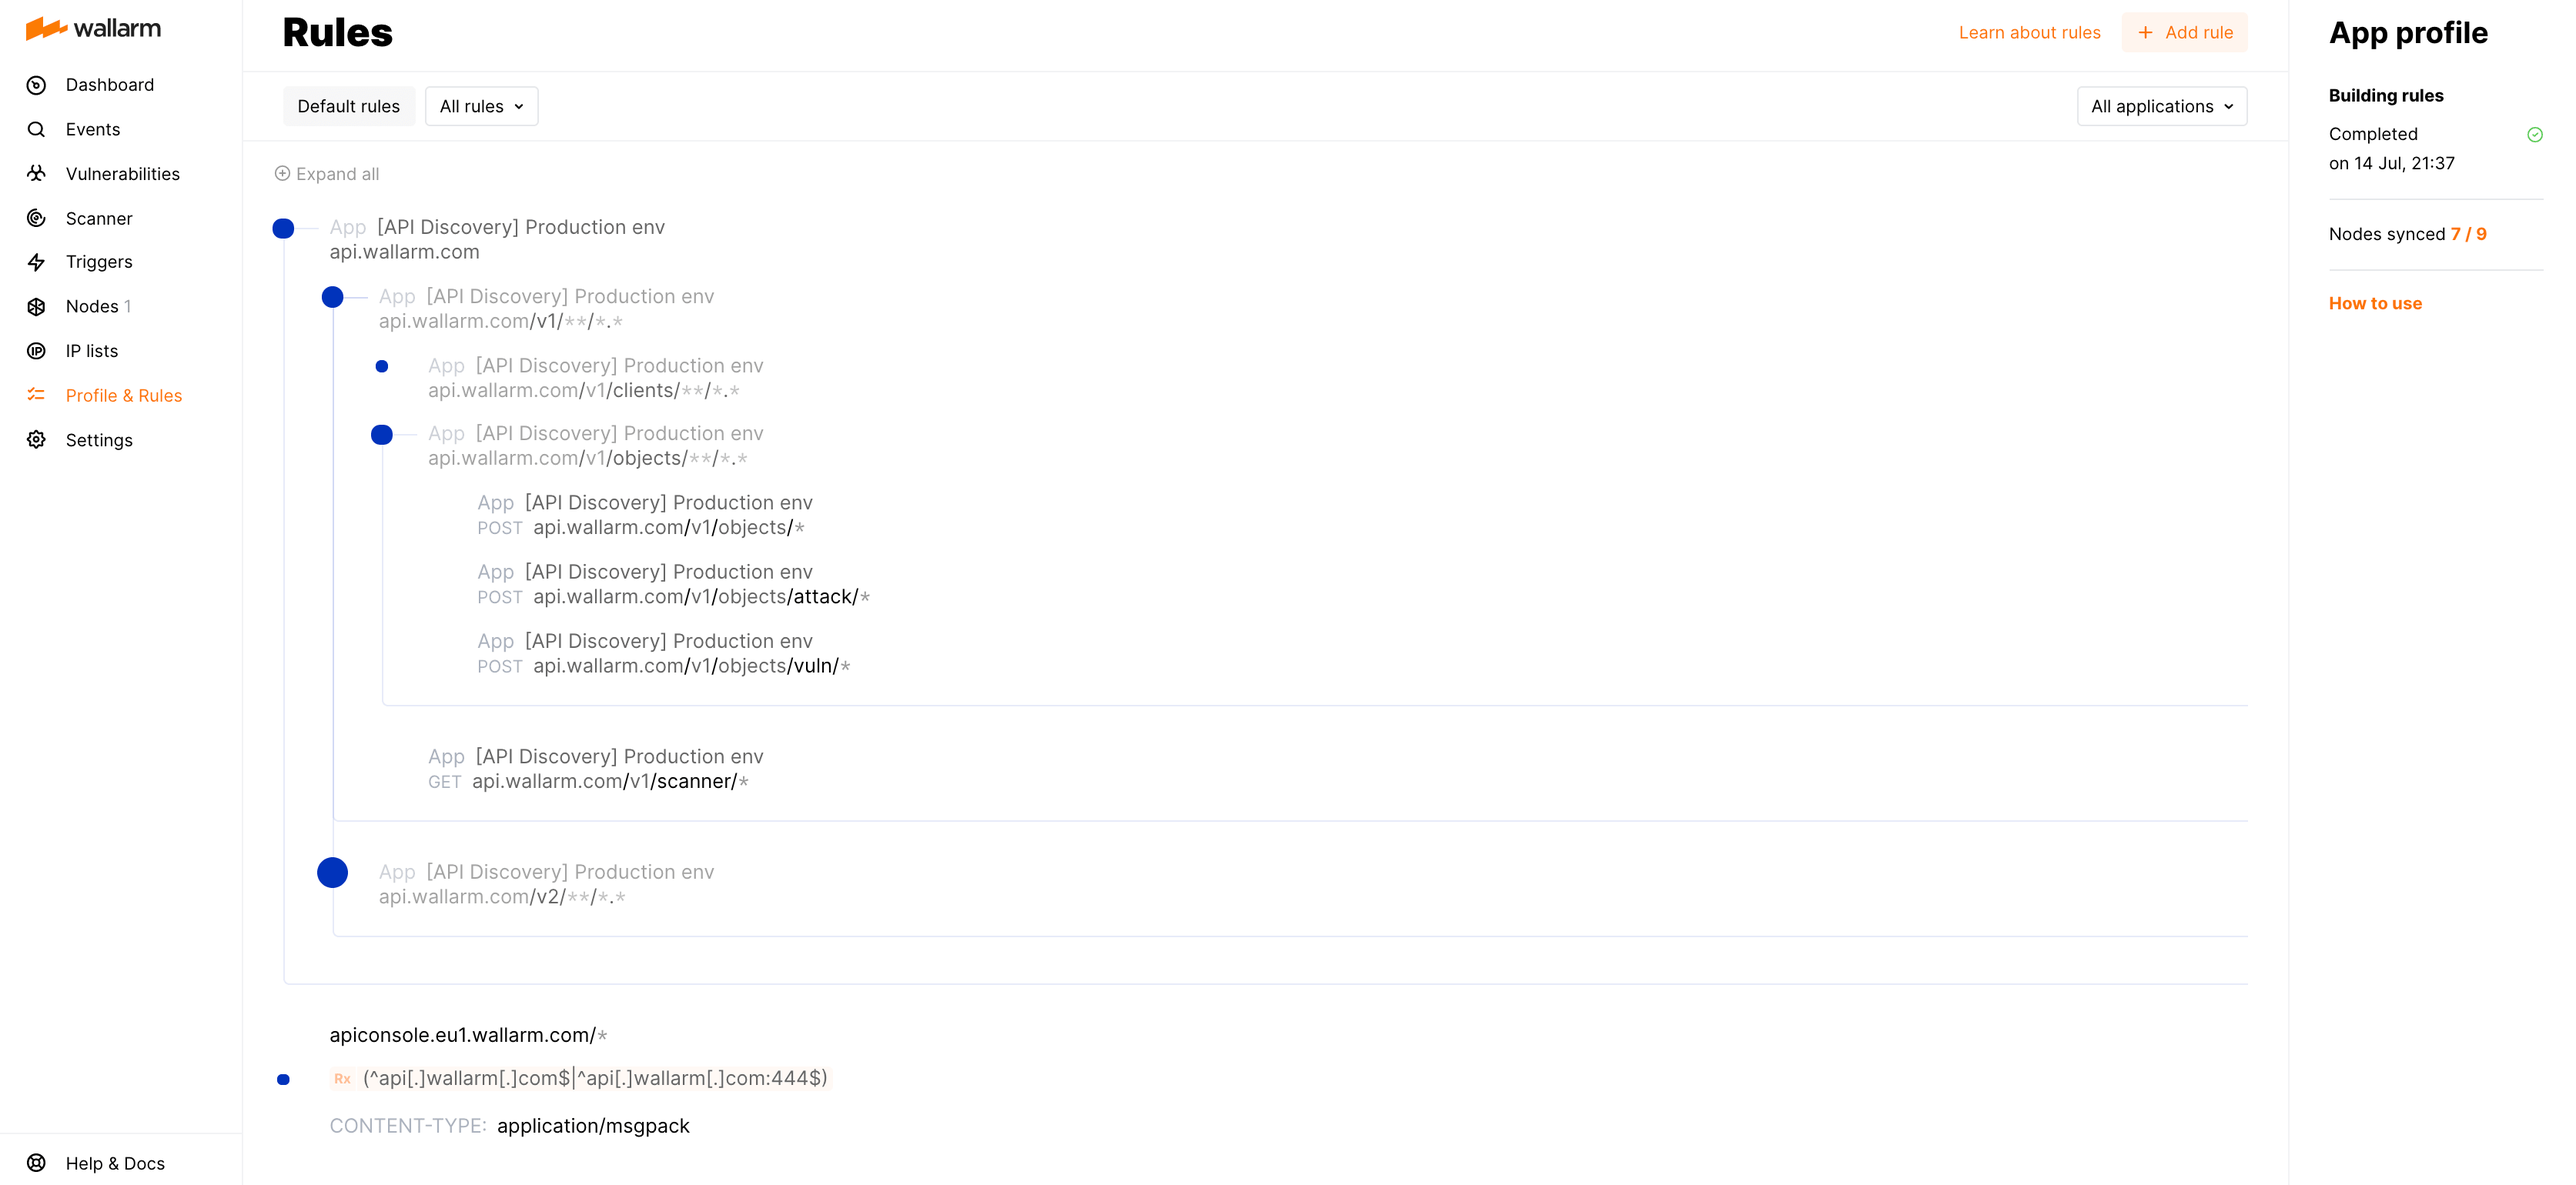
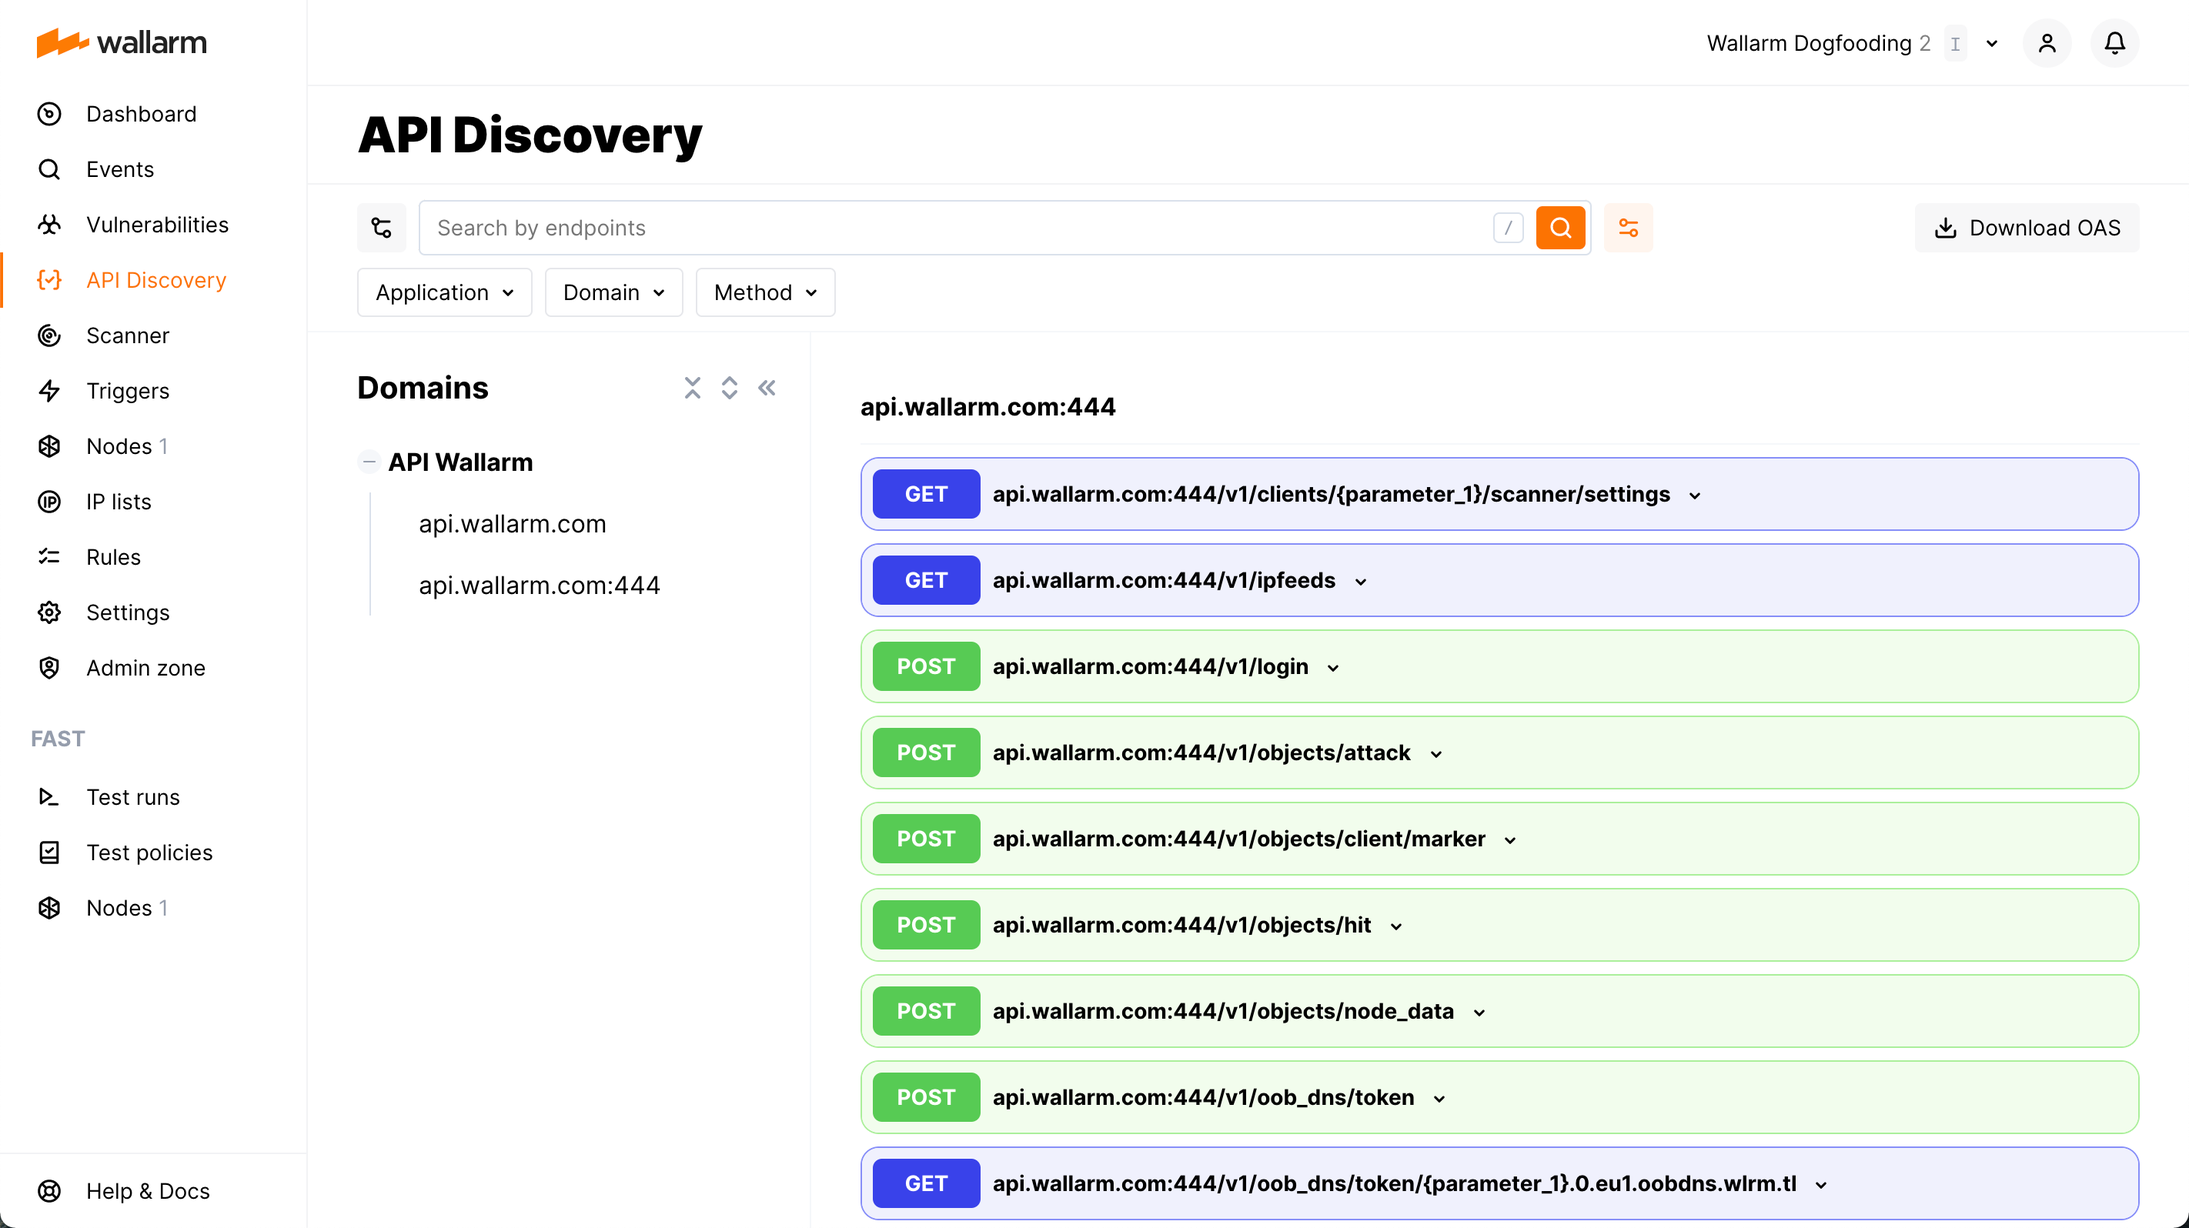
DOCS-1410 API Discovery description set up-to-date

diff --git a/docs/latest/about-wallarm-waf/api-discovery.md b/docs/latest/about-wallarm-waf/api-discovery.md
@@ -68,21 +68,19 @@ To run API Discovery correctly:
 
     * Name of your company account registered in Wallarm Console.
     * Name of the [Wallarm Cloud](overview.md#cloud) being used.
-    * IDs of applications to be discovered by API Discovery. Application ID is the value of `wallarm_instance`. Enabling API Discovery for all applications does not require sending each application's ID.
 
-        Wallarm technical support will duplicate the application records in Wallarm Console → **Settings** → **Applications**. Each duplicate record will have the prefix `[API Discovery]`, application name, and a unique ID. For example, if enabling API Discovery for all applications, the list of applications in Wallarm Console will look as follows:
-
-        ![!Applications for API Discovery](../images/about-wallarm-waf/api-discovery/apps-for-api-discovery.png)
-
-        Duplicate applications are used to split the API structure tree by applications and to separate the API structure and custom ruleset trees in the **Rules** section.
-
-Once the API Discovery module is enabled, it will start the traffic analysis and API structure building. The API structure will be displayed in the **Rules** section of Wallarm Console.
+Once the API Discovery module is enabled, it will start the traffic analysis and API structure building. The API structure will be displayed in the **API Discovery** section of Wallarm Console.
 
 ## API structure visualization
 
-The structure of each application API is displayed as a separate tree in the **Rules** section of Wallarm Console.
+The structure of each application API is displayed as a separate tree in the **API Discovery** section of Wallarm Console. Each application tree is organized like follows:
 
-In the title of each tree, the record name duplicating the application that uses the presented API structure is displayed. The name of the duplicating record has the format of `[API Discovery] <YOUR_APP_NAME>`. The API structure tree includes the following elements:
+* `Application name`
+    * `Domain 01`
+    * ...
+    * `Domain XX`
+
+The API structure includes the following elements (grouped by domain):
 
 * The set of API endpoints discovered by API Discovery
 * Methods of requests processed at API endpoints
@@ -93,7 +91,26 @@ By clicking the endpoint, you can also find the set of required and optional par
 
 ![!Request parameters discovered by API Discovery](../images/about-wallarm-waf/api-discovery/discovered-request-params.png)
 
-A [custom ruleset](../user-guides/rules/intro.md) created in the **Rules** section is displayed as a separate tree. The rules and API structure are not linked to each other.
+You can filter the discovered API structure:
+
+* Type in the search string.
+* Use **Application**, **Domain** and **Method** filters.
+* In the **Domain** list, click application or domain.
+
+If you need some endpoint URL, in this endpoint string, click down arrow and then from the menu select **Copy URL**.
+
+## API structure and rules
+
+Currently API structure tree and a [custom ruleset](../user-guides/rules/intro.md) tree created in the **Rules** section are not linked to each other.
+
+You can create new rule from any endpoint of API structure: 
+
+1. In the endpoint string, click down arrow and then from the menu select **Create rule**. The create rule dialog is displayed. The endpoint address is parsed into the dialog automatically.
+1. In the create rule dialog, specify rule information and then click **Create**.
+
+## Download OpenAPI Specification (OAS) for your API structure
+
+Click **Download OAS** to get a `swagger.json` file with your API structure description. The description will be in the OpenAPI v3 format.
 
 ## API Discovery debugging
 
